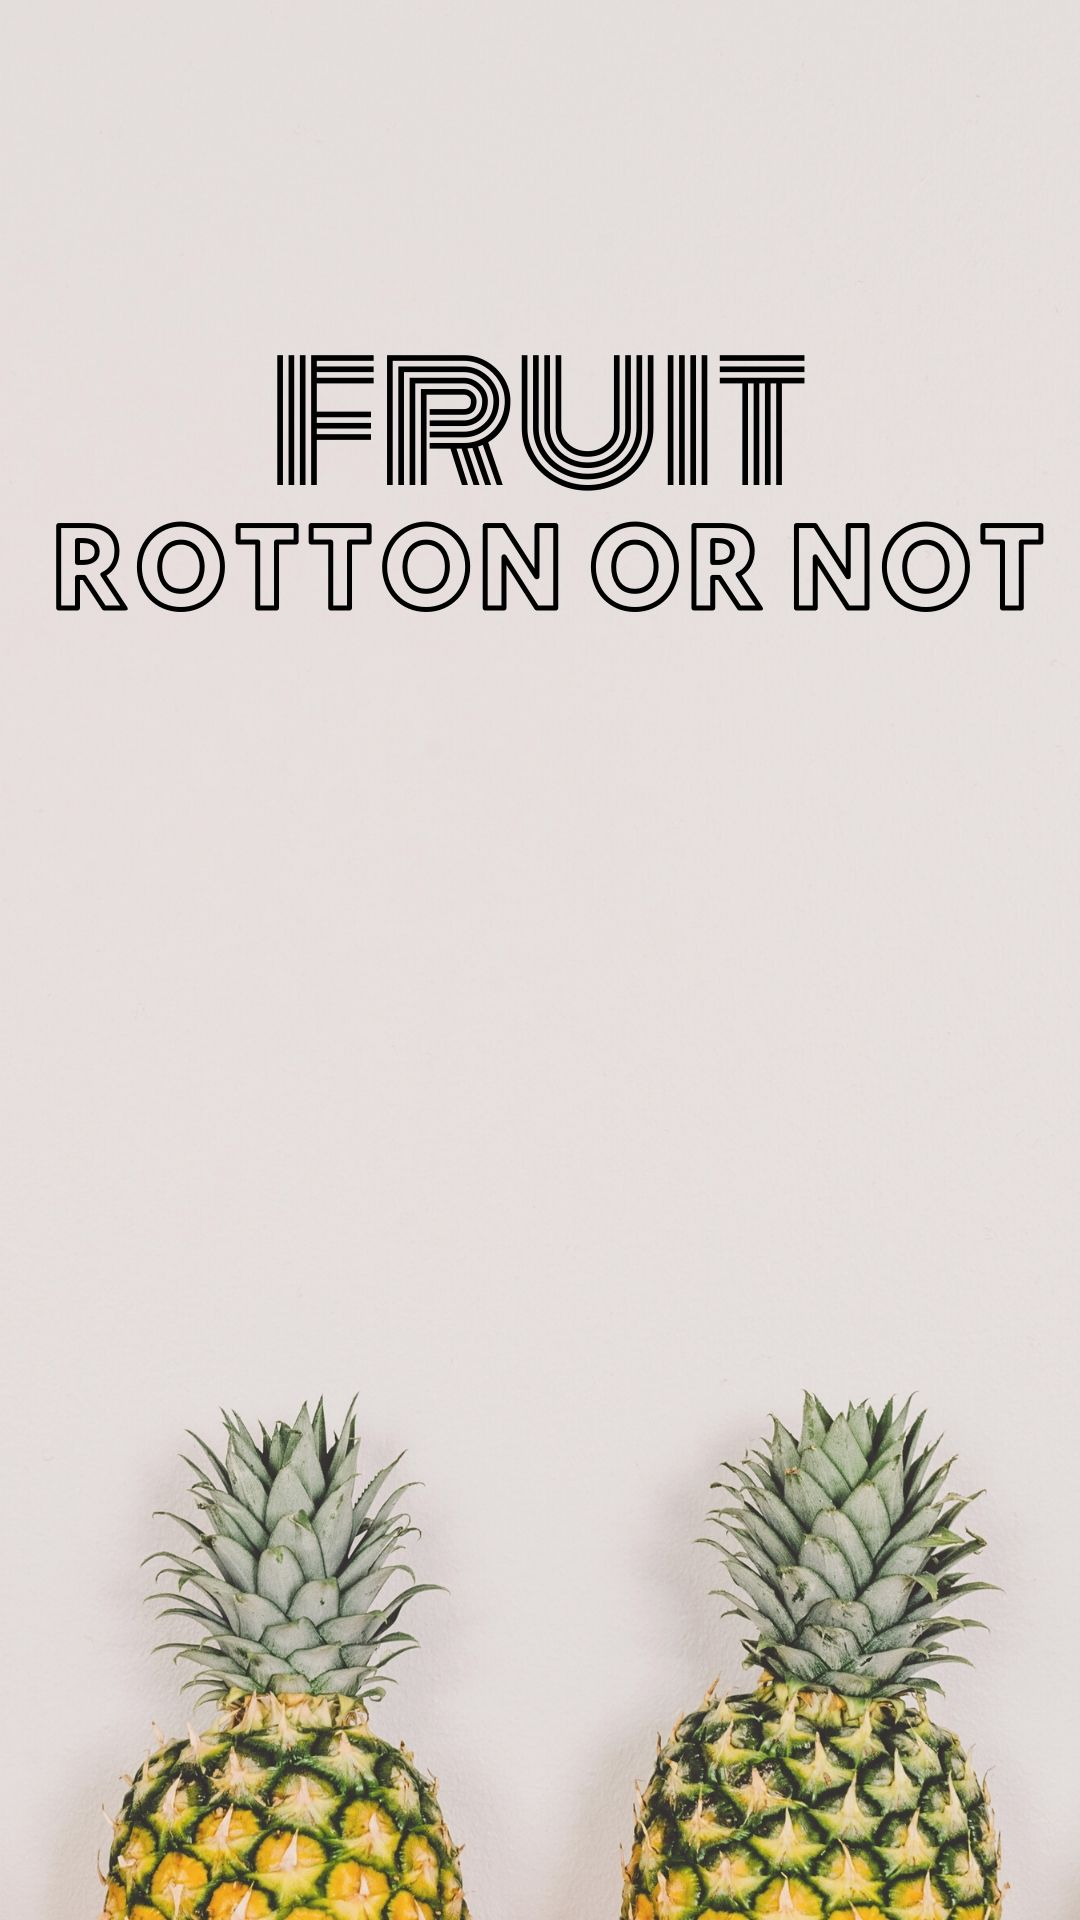
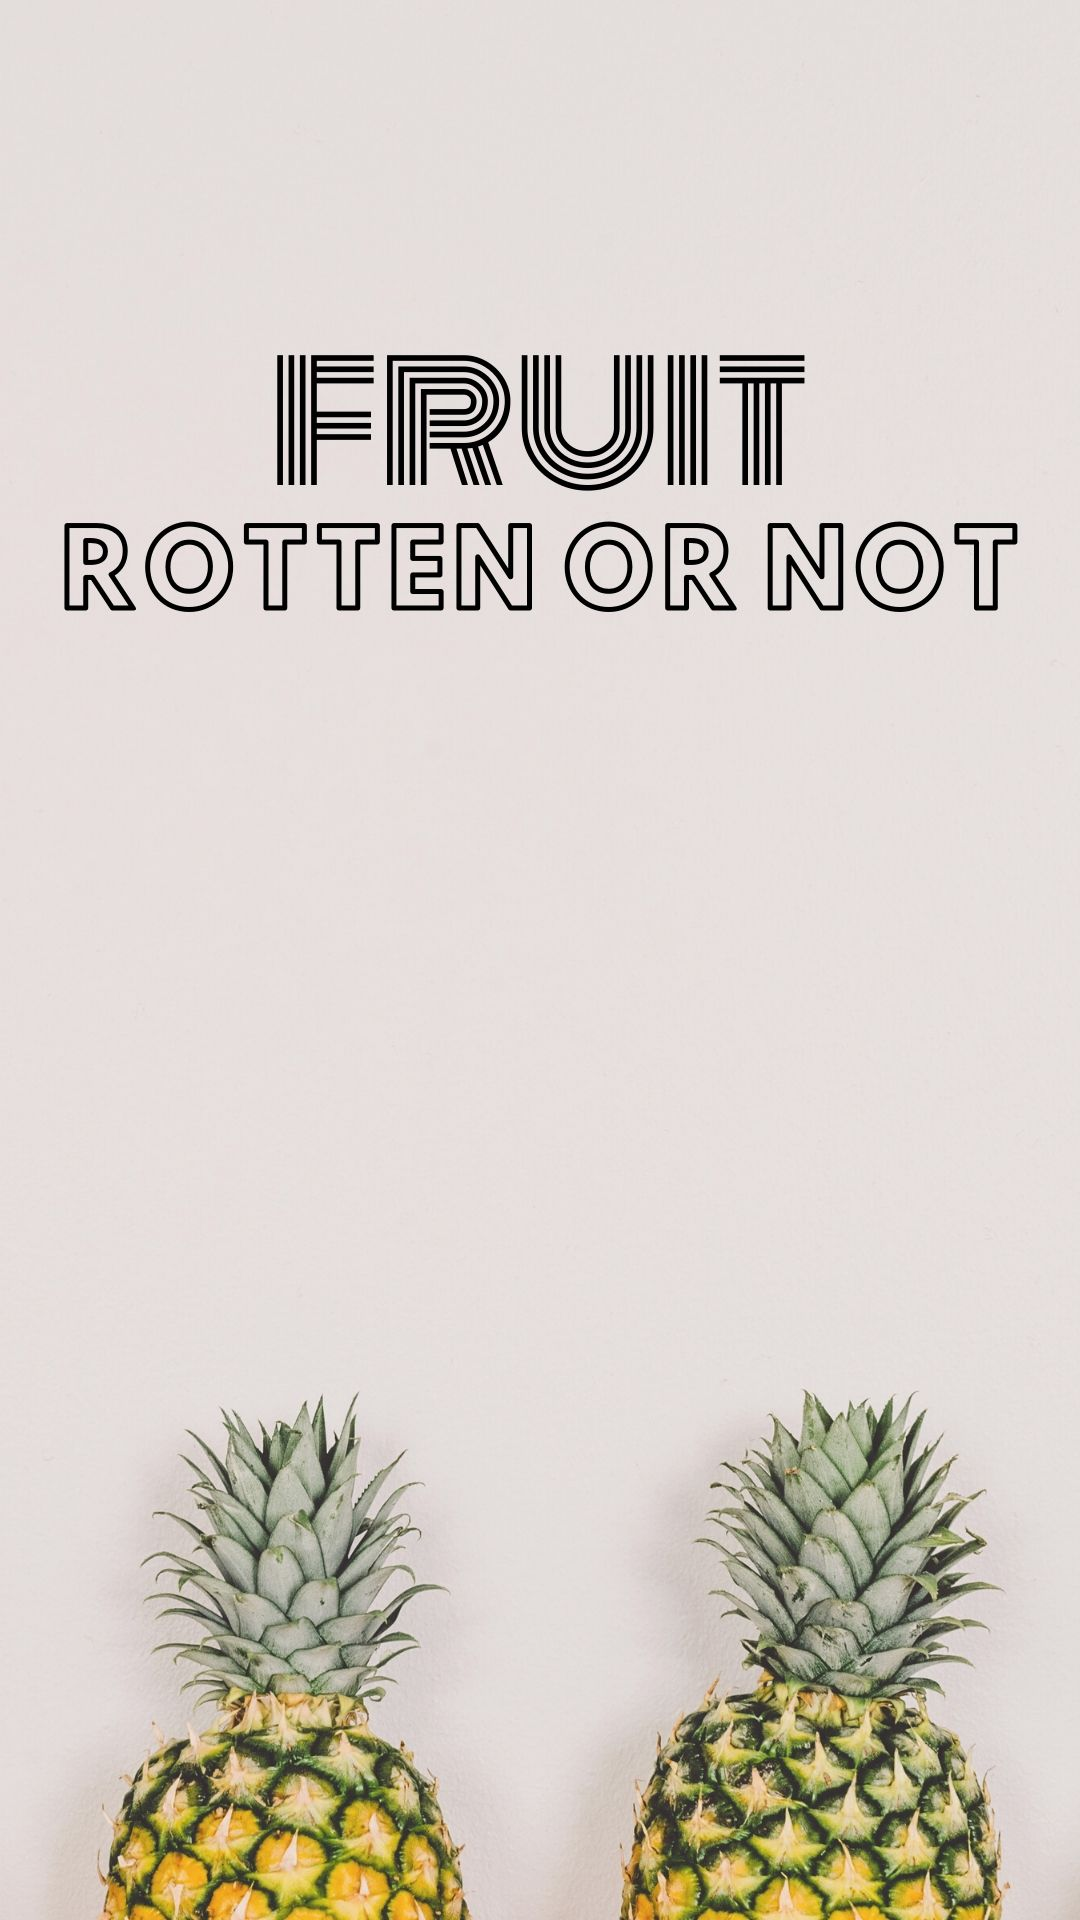
Fixed Bugs and Improved user Experience

Changed region(s): [[0.0306, 0.25, 0.9472, 0.3438]]

diff --git a/results.js b/results.js
@@ -20,8 +20,19 @@ export default class Results extends React.Component {
 		.onSnapshot((doc) => {
 			// console.log("User data:", doc.data());
 			if(doc.data().result != undefined && doc.data().result != 'null'){
-				console.log('here')
-				this.setState( prevState => ({ result: doc.data().result, wait4Result: !prevState.wait4Result }) )
+				// console.log('here')
+				let ans = doc.data().result
+				// console.log(ans)
+				if(((doc.data().type).split('__'))[0] === 'disease'){
+					ans = (ans.split("___"))[1];
+					ans = ans.replace(' ','-');
+					ans = ans.replace(/_/g,' ');
+				}
+				else if(((doc.data().type).split('__'))[0] === 'rotton'){
+					if(ans.charAt(0) === 'r') ans='rotten';
+					else ans='fresh';
+				}
+				this.setState( prevState => ({ result: ans, wait4Result: !prevState.wait4Result }) )
 
 				listener();
 				let deleteDoc = firedb.collection("models").doc(`${this.state.uid}`).delete();
@@ -36,10 +47,11 @@ export default class Results extends React.Component {
 		// }
 		let div;
 		if(this.state.wait4Result) div = <ActivityIndicator size="large" color="#0000ff" animating={this.state.wait4Result} />
-		else div = <Text> {this.state.result} </Text>
+		else div = <Text style={{ fontSize:15, fontWeight:'bold' }} > {this.state.result} </Text>
 		return(
 			<View style={ styles.container } >
 				{div}
+				<Button title='Go Back' onPress={() => this.props.navigation.navigate('DetectionHome')} />
 			</View>
 		)
 	}
@@ -47,7 +59,6 @@ export default class Results extends React.Component {
 const styles = StyleSheet.create({
 	container: {
     flex: 1,
-    flexDirection:'row',
     backgroundColor: '#fff',
     alignItems: 'center',
     justifyContent: 'space-around',

diff --git a/camera.js b/camera.js
@@ -24,7 +24,7 @@ export default class CameraClass extends React.Component {
       let photo = await this.camera.takePictureAsync({skipProcessing:true, quality:1, ratio:'4:3' });
       let reducedphoto = await ImageManipulator.manipulateAsync(
         photo.uri, [],
-        { compress: 0.5 }
+        { compress: 0.3 }
       );
       // this.setState({ image: photo.uri });
       // console.log(photo)
@@ -49,7 +49,7 @@ export default class CameraClass extends React.Component {
             autoFocus={Camera.Constants.AutoFocus.on}>
 
             <View style={{ flex:1, justifyContent:"flex-end", alignItems:"center", position:'relative' }}>
-              <TouchableOpacity style={{ backgroundColor:'transparent',paddingBottom:55 }} onPress={()=>this.handleTakePhoto()} >
+              <TouchableOpacity style={{ backgroundColor:'transparent',paddingBottom:50 }} onPress={()=>this.handleTakePhoto()} >
                 <MaterialCommunityIcons style={{ fontSize:50, color:'#fff' }} name="camera"/>
               </TouchableOpacity>
               <Svg height='25%' width='25%' viewBox='0 0 100 100' style={{ position:'absolute' }}>

diff --git a/detection.js b/detection.js
@@ -37,7 +37,7 @@ export default class Detection extends React.Component {
 class CameraScreen extends React.Component {
 	getImagefromCamera = (img,type) => {
 	// this.setState({ imageUri: img.uri, openCamera: false, imageH: img.height, imageW: img.width });
-	this.props.navigation.navigate('ImageClicked', { imageUri: img.uri, imageH: img.height, imageW: img.width,leafType: type })
+	this.props.navigation.navigate('ImageClicked', { imageUri: img.uri, imageH: img.height, imageW: img.width, leafType: type })
 	// console.log(img);
 	}
 	render(){

diff --git a/MainApp.js b/MainApp.js
@@ -90,7 +90,7 @@ export default class MainApp extends React.Component {
           	tabBarIcon: ({ color, size }) => (
             	<MaterialCommunityIcons name="flower" color={color} size={size} />
 						), }} />
-          <Tab.Screen name="Rotton or Not" component={RottonScreen} options={{ 
+          <Tab.Screen name="Rotten or Not" component={RottonScreen} options={{ 
           	tabBarIcon: ({ color, size }) => (
             	<MaterialCommunityIcons name="food-apple" color={color} size={size} />
 						), }} />
